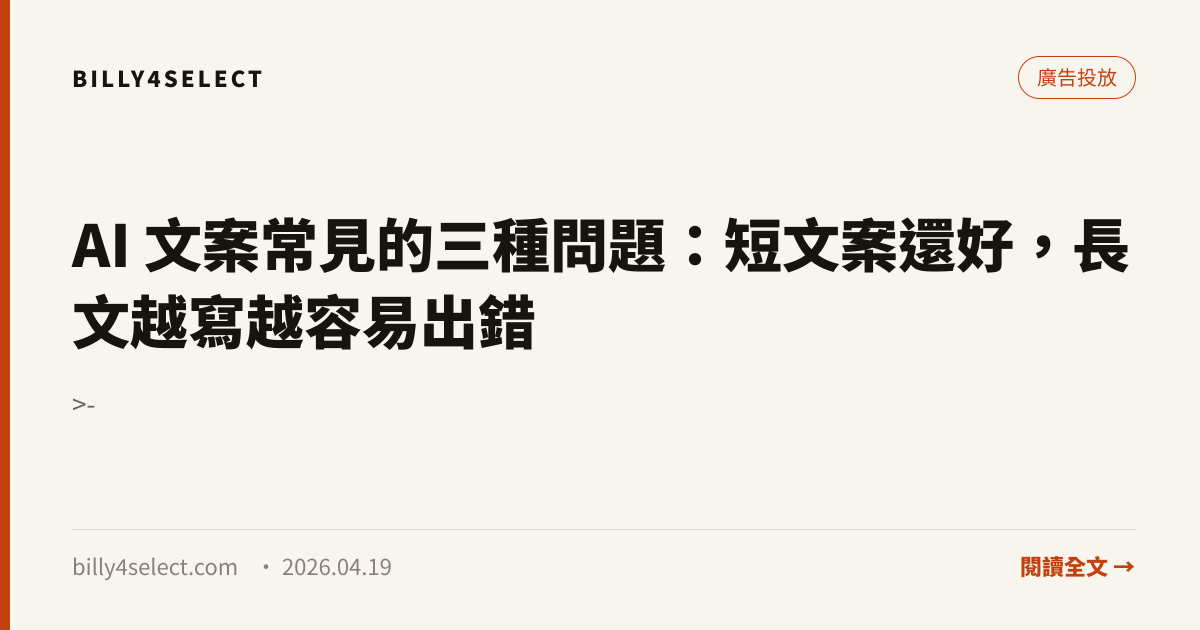
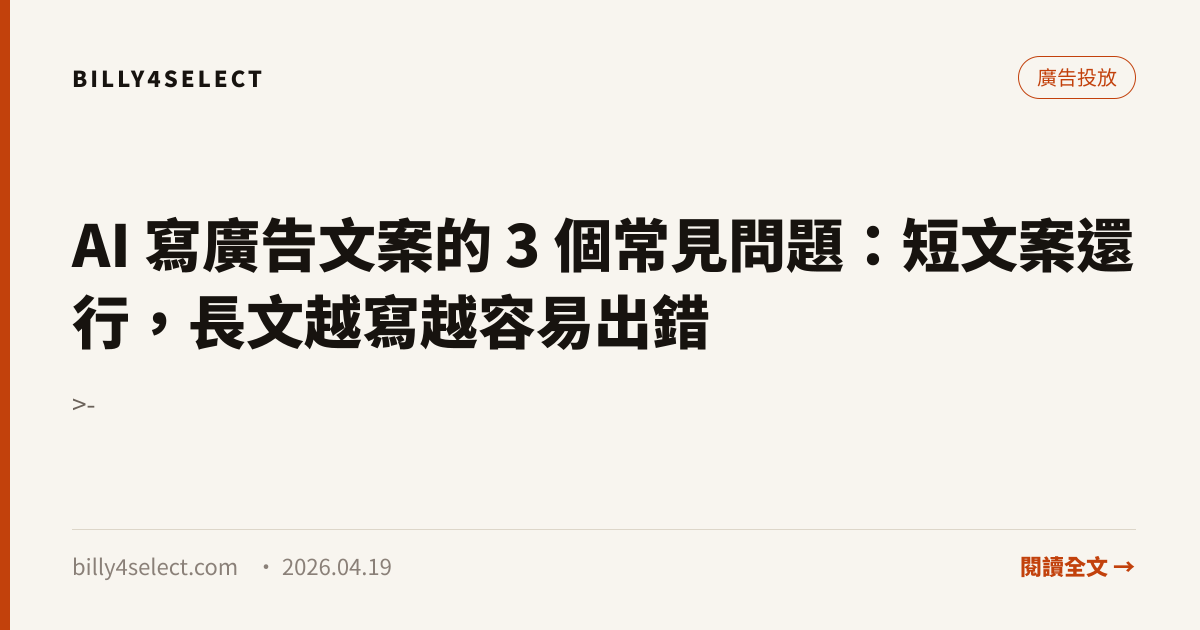
SEO：第三批 12 篇文章標題依 Google 前三名實測改寫

Changed region(s): [[0.0617, 0.3317, 0.9558, 0.573]]

diff --git a/src/content/blog/why-business-exists-nine-questions.md b/src/content/blog/why-business-exists-nine-questions.md
@@ -1,5 +1,5 @@
 ---
-title: "一門生意為什麼成立？從需求、價值與成本看商業模式"
+title: "商業模式怎麼分析？從需求、價值與成本看一門生意為什麼成立"
 description: >-
   填完商業模式畫布不代表生意會賺錢。這篇整合檢驗生意的九個核心問題、畫布看不到的四個現實透鏡（收入、成本、單位經濟與護城河），以及單筆獲利拆解、損益平衡與調價打折實算，幫你看懂一門生意到底賺不賺錢。
 publishedDate: 2026-11-20T13:00:00Z

diff --git a/src/content/blog/audience-is-not-a-label.md b/src/content/blog/audience-is-not-a-label.md
@@ -1,5 +1,5 @@
 ---
-title: 受眾分析怎麼做？從情境、任務與替代方案理解顧客
+title: "目標客群 TA 怎麼找？受眾分析從情境、任務與替代方案開始"
 description: >-
   受眾分析不能只寫年齡和職業，需求驗證更不能只問「你會不會買」。這篇整合情境／任務／障礙／替代方案四要素、五個真實付費訊號、訪談過去行為提問法，以及從低成本到預售手動交付的五種市場驗證實測。
 publishedDate: 2026-11-20T17:00:00Z

diff --git a/src/content/blog/ad-performance-reporting-stakeholders.md b/src/content/blog/ad-performance-reporting-stakeholders.md
@@ -1,5 +1,5 @@
 ---
-title: 廣告成效報告怎麼寫？少貼一堆流量圖，直接講轉換率與下一步
+title: "廣告成效報告怎麼寫？給老闆看的週報，直接講轉換率與下一步"
 description: >-
   每週做廣告成效報告貼滿曝光跟點擊圖表，主管聽完卻只問「所以到底有沒有賺錢」？分享實務上最好溝通的報告寫法：先給轉換率與獲利結論，再說下一步要測什麼。
 publishedDate: 2026-03-25T01:00:00Z

diff --git a/src/content/blog/influencer-marketing-next-step.md b/src/content/blog/influencer-marketing-next-step.md
@@ -1,5 +1,5 @@
 ---
-title: 網紅合作怎麼評估？別搞錯任務目標，曝光型跟導購型根本是兩回事
+title: "網紅合作怎麼評估？曝光型 vs 導購型 KOL，別搞錯任務目標"
 description: >-
   找網紅業配花了一筆預算，結果幾乎沒賣出幾單？品牌做網紅合作最常踩的雷就是搞錯目標。這篇拆解曝光型與專精導購型網紅的差別，以及合作前該確認的評估標準。
 publishedDate: 2023-05-16T01:00:00Z

diff --git a/src/content/blog/ai-copywriting-mistakes.md b/src/content/blog/ai-copywriting-mistakes.md
@@ -1,5 +1,5 @@
 ---
-title: AI 文案常見的三種問題：短文案還好，長文越寫越容易出錯
+title: "AI 寫廣告文案的 3 個常見問題：短文案還行，長文越寫越容易出錯"
 description: >-
   叫 AI 寫文案太空泛、寫到長銷售頁就前後打架又亂編賣點？這篇整合提煉賣點的買單底線、餵資料給 AI 的正確起手式，以及解決 AI 長文案三大毛病與上架前四項檢查。
 publishedDate: 2026-04-19T08:45:12Z

diff --git a/src/content/blog/marketing-metrics-2026-what-to-track.md b/src/content/blog/marketing-metrics-2026-what-to-track.md
@@ -1,5 +1,5 @@
 ---
-title: "2026 行銷指標要追什麼？從曝光到留存，只留五個真的會影響決策的數字"
+title: "行銷指標有哪些？2026 只追 5 個真正影響決策的數字"
 description: 行銷數據的問題不是太少，而是太多。這篇把指標拆成生意層、通路層、素材層三層，並說明 2026 年三個結構性變化之後，哪五個數字值得你每週看。
 publishedDate: 2026-05-04T01:00:00Z
 author: 比利陳 Billy Chen

diff --git a/src/content/blog/one-person-company-ai-work-system.md b/src/content/blog/one-person-company-ai-work-system.md
@@ -1,5 +1,5 @@
 ---
-title: "一人公司怎麼運作？用 AI 建立可穩定交付的工作系統"
+title: "一人公司怎麼運作？用 AI 建立可穩定交付的工作系統（2026）"
 description: 一人公司不是什麼都自己做，而是把角色拆開，用 AI 與流程補上團隊功能。這篇用五個角色、一條交付鏈與品質檢查，建立一個可以穩定接案的工作系統。
 publishedDate: 2026-11-20T23:00:00Z
 updatedDate: 2026-11-24T07:00:00Z

diff --git a/src/content/blog/ad-budget-new-vs-returning.md b/src/content/blog/ad-budget-new-vs-returning.md
@@ -1,5 +1,5 @@
 ---
-title: 廣告預算怎麼分配？自動化時代的新客與回購投放邏輯
+title: "廣告預算怎麼分配？新客與再行銷比例、自動化投放的預算邏輯（2026）"
 description: >-
   廣告預算到底要 7:3 還是 8:2 分給新客跟再行銷？現在 Meta 等平台高度自動化，這篇聊聊為什麼我改讓 FB AI 自動分配預算，以及你真正該手動把關的三件事。
 publishedDate: 2026-03-11T01:00:00Z

diff --git a/src/content/blog/analyze-company-strategy-public-info.md b/src/content/blog/analyze-company-strategy-public-info.md
@@ -1,5 +1,5 @@
 ---
-title: 如何分析一家公司的商業策略？從公開資訊看企業的選擇
+title: "如何分析一家公司？用公開資訊看懂商業策略與企業的選擇"
 description: 策略不是口號，而是一連串資源分配的選擇。這篇用五條線索：收入組合、顧客、成本、投資與定價，帶你從公開資訊推回一家公司真正在做什麼。
 publishedDate: 2026-11-20T15:00:00Z
 author: 比利陳 Billy Chen

diff --git a/src/content/blog/personal-brand-trust-not-reach.md b/src/content/blog/personal-brand-trust-not-reach.md
@@ -1,6 +1,6 @@
 ---
 
-title: "個人品牌怎麼做才有效？讓對的人理解、信任、記得你"
+title: "個人品牌怎麼做才有效？沒流量也能讓對的人理解、信任、記得你"
 description: "個人品牌的價值，來自特定受眾能否理解你的專業、看見你的判斷，並在需要時想起你。追蹤數只是其中一種訊號。"
 publishedDate: 2026-11-20T22:00:00Z
 updatedDate: 2026-11-26T09:00:00Z

diff --git a/src/content/blog/marketing-team-roles.md b/src/content/blog/marketing-team-roles.md
@@ -1,5 +1,5 @@
 ---
-title: "行銷團隊怎麼分工？三個人也能跑完一整條漏斗的分法"
+title: "行銷團隊怎麼分工？3 人小團隊也能跑完整條漏斗的編制分法"
 description: 一個人做不完，人越多又越亂。這篇把行銷工作拆成五種職能，說明三人小隊怎麼兼、什麼時候該補人、哪些工作外包最划算。
 publishedDate: 2026-04-12T01:00:00Z
 author: 比利陳 Billy Chen

diff --git a/src/content/blog/self-media-first-month-positioning-or-posting.md b/src/content/blog/self-media-first-month-positioning-or-posting.md
@@ -1,5 +1,5 @@
 ---
-title: "自媒體第一個月做什麼？先定位還是先發文"
+title: "自媒體第一個月做什麼？新手該先定位還是先發文"
 description: "剛開始經營自媒體，定位想不清楚會拖延，直接發文又容易失去方向。用一個月建立暫定主題、測試內容，再根據真實回應修正。"
 publishedDate: 2026-11-24T05:00:00Z
 updatedDate: 2026-11-26T06:00:00Z
